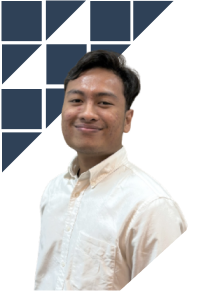
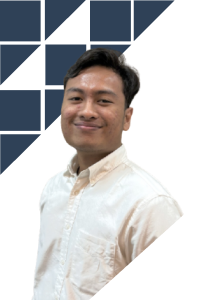
fix: newtn talent card images

diff --git a/src/app/_components/NewtnTalentCard.tsx b/src/app/_components/NewtnTalentCard.tsx
@@ -1,3 +1,4 @@
+import Image from "next/image";
 import { NewtnTalent } from "@/types/newtnTalent";
 
 interface NewtnTalentCardProps {
@@ -7,8 +8,14 @@ interface NewtnTalentCardProps {
 const NewtnTalentCard: React.FC<NewtnTalentCardProps> = ({ talent }) => {
   return (
     <div className="flex flex-none flex-col items-center">
-      <img src={talent.image} alt={talent.name} />
-      <p className="text-2xl font-semibold text-black mt-5">{talent.name}</p>
+      <Image
+        src={talent.image}
+        alt={`Picture of ${talent.name}`}
+        width={200}
+        height={300}
+      />
+
+      <p className="mt-5 text-2xl font-semibold text-black">{talent.name}</p>
       <p className="text-lg text-black">{talent.role}</p>
     </div>
   );
